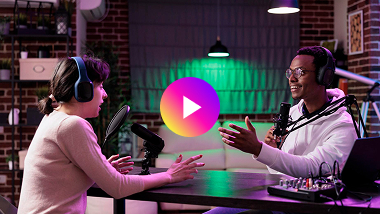
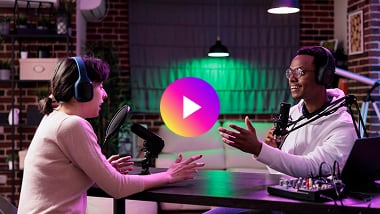
animation added

diff --git a/css/styles.css b/css/styles.css
@@ -98,6 +98,33 @@ main section {
 .btn-group .btn-primary {
     padding: 0 22px;
 }
+.animate-scale {
+    animation: rotateInView 5s ease-in-out infinite;
+} 
+
+@keyframes rotateInView {
+    0% {
+        transform: scale(.5) rotate(30deg);
+        transform-origin: center center
+    }
+
+    25% {
+        transform: rotate(-10deg)
+    }
+
+    50% {
+        transform: rotate(5deg);
+    }
+    
+    75% {
+        transform: rotate(-10deg)
+    }
+
+    100% {
+        transform: scale(.5) rotate(30deg);
+        transform-origin: center center
+    }
+}
 /* ---- Banner ---- */
 
 /* ---- About ---- */

diff --git a/index.html b/index.html
@@ -39,7 +39,7 @@
         <section class="banner">
             <div class="container flex flex-col justify-center items-center gap-10">
                 <div class="mic-container relative rounded-full flex justify-center items-center">
-                    <img src="assets/microphone.png" alt="Mic Icon">
+                    <img src="assets/microphone.png" alt="Mic Icon" class="animate-scale">
                     <span class="new text-lg font-semibold">NEW</span>
                 </div>
 
